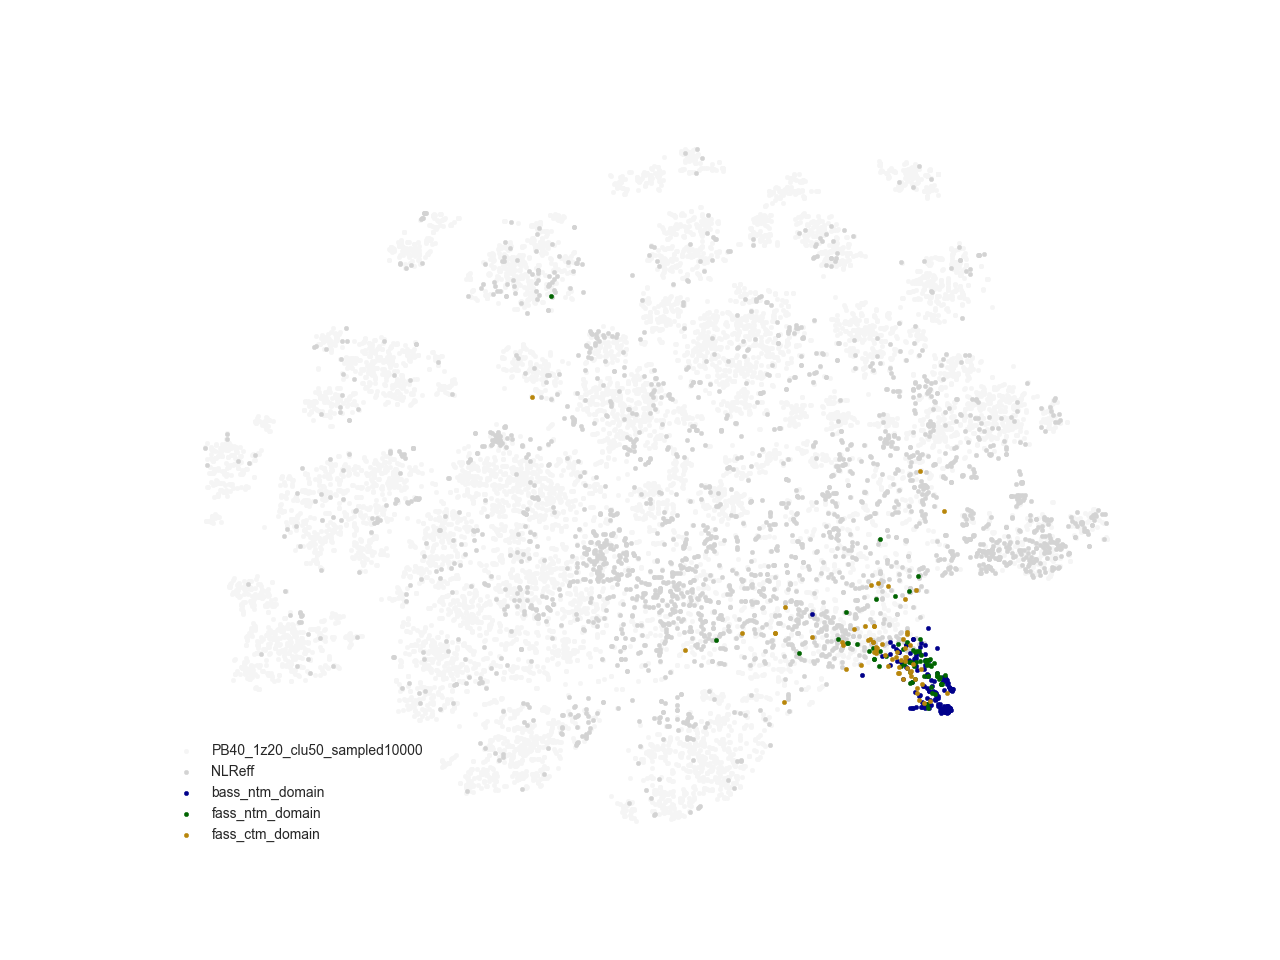
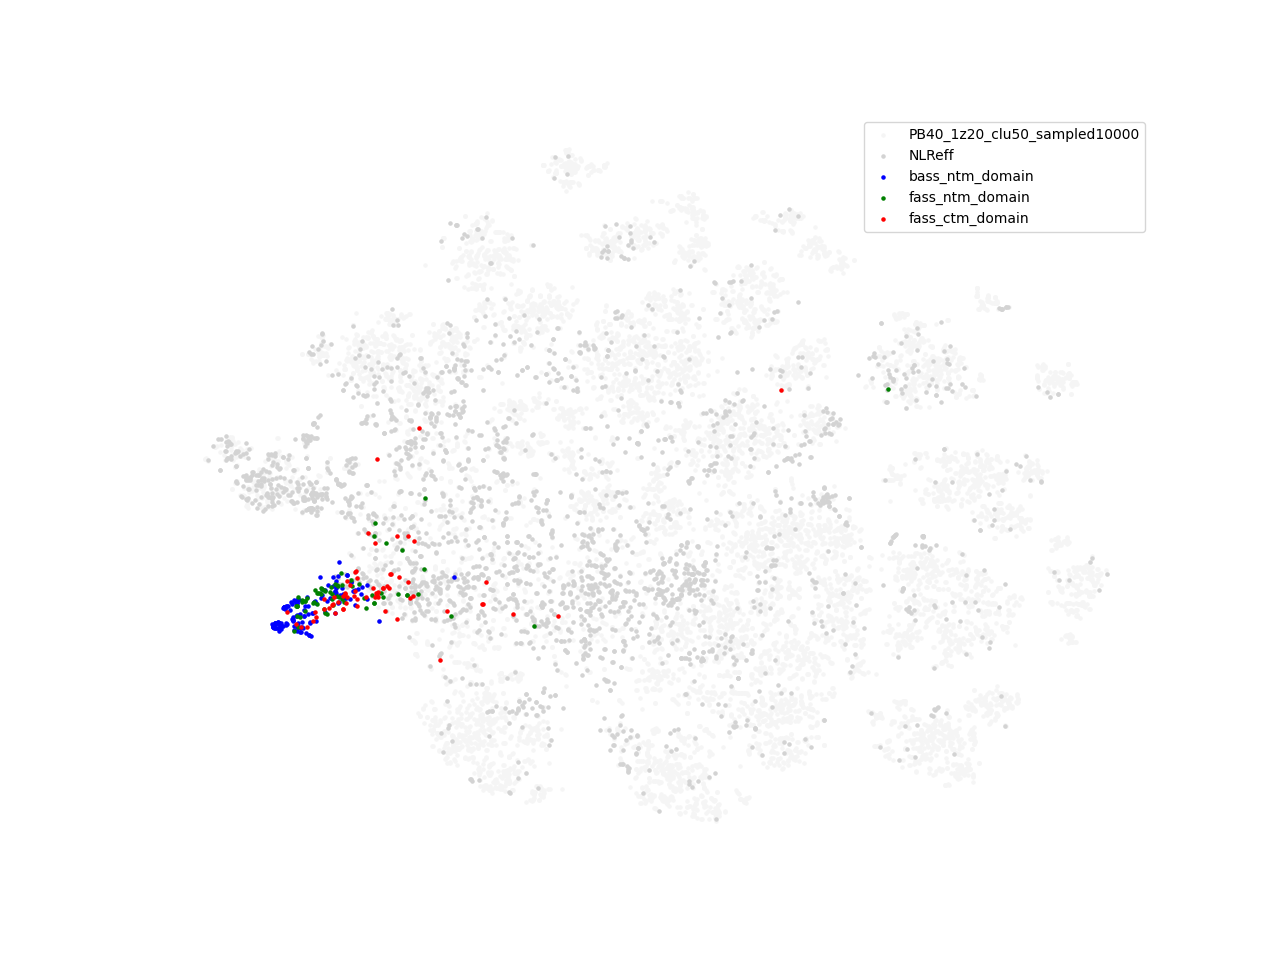
Added type separations in representation

diff --git a/config.py b/config.py
@@ -164,26 +164,28 @@ TST_FOLDS = {
 # represent
 WHITE_SMOKE = "whitesmoke"
 LIGHT_GRAY = "lightgray"
-DARK_BLUE = "darkblue"
-DARK_GREEN = "darkgreen"
-DARK_GOLDEN_ROD = "darkgoldenrod"
+BLUE = "blue"
+GREEN = "green"
+RED = "red"
+COLORS_CYCLE = [BLUE, GREEN, RED, "tan", "orange", "gold", "cyan", "navy", "purple", "magenta", "orchid"] # min 11 needed
 
 REP_COMBS = [
-    [RepFold("PB40_1z20_clu50_sampled10000", WHITE_SMOKE), RepFold("NLReff", LIGHT_GRAY), RepFold("bass_ntm_domain", DARK_BLUE), RepFold("fass_ntm_domain", DARK_GREEN), RepFold("fass_ctm_domain", DARK_GOLDEN_ROD)],
-    [RepFold("PB40_1z20_clu50_sampled10000", WHITE_SMOKE), RepFold("NLReff", LIGHT_GRAY), RepFold("bass_ntm_motif", DARK_BLUE), RepFold("fass_ntm_motif", DARK_GREEN), RepFold("fass_ctm_motif", DARK_GOLDEN_ROD)],
-    [RepFold("PB40_1z20_clu50_sampled10000", WHITE_SMOKE), RepFold("NLReff", LIGHT_GRAY), RepFold("bass_ntm_motif", DARK_BLUE), RepFold("bass_ntm_motif_env5", DARK_GREEN), RepFold("bass_ntm_motif_env10", DARK_GOLDEN_ROD)],
-    [RepFold("PB40_1z20_clu50_sampled10000", WHITE_SMOKE), RepFold("NLReff", LIGHT_GRAY), RepFold("fass_ntm_motif", DARK_BLUE), RepFold("fass_ntm_motif_env5", DARK_GREEN), RepFold("fass_ntm_motif_env10", DARK_GOLDEN_ROD)],
-    [RepFold("PB40_1z20_clu50_sampled10000", WHITE_SMOKE), RepFold("NLReff", LIGHT_GRAY), RepFold("fass_ctm_motif", DARK_BLUE), RepFold("fass_ctm_motif_env5", DARK_GREEN), RepFold("fass_ctm_motif_env10", DARK_GOLDEN_ROD)],
-    # TODO: specific class representation
-    # [RepFold("PB40_1z20_clu50_sampled10000", WHITE_SMOKE), RepFold("NLReff", LIGHT_GRAY), RepFold("bass_ntm_domain", sep="_")],
-    # [RepFold("PB40_1z20_clu50_sampled10000", WHITE_SMOKE), RepFold("NLReff", LIGHT_GRAY), RepFold("bass_ntm_motif", class_id_len=7)],
-    # [RepFold("PB40_1z20_clu50_sampled10000", WHITE_SMOKE), RepFold("NLReff", LIGHT_GRAY), RepFold("bass_ntm_motif_env5", class_id_len=7)],
-    # [RepFold("PB40_1z20_clu50_sampled10000", WHITE_SMOKE), RepFold("NLReff", LIGHT_GRAY), RepFold("bass_ntm_motif_env10", class_id_len=7)],
-    # [RepFold("PB40_1z20_clu50_sampled10000", WHITE_SMOKE), RepFold("NLReff", LIGHT_GRAY), RepFold("fass_ntm_motif", sep="_")],
-    # [RepFold("PB40_1z20_clu50_sampled10000", WHITE_SMOKE), RepFold("NLReff", LIGHT_GRAY), RepFold("fass_ntm_motif_env5", sep="_")],
-    # [RepFold("PB40_1z20_clu50_sampled10000", WHITE_SMOKE), RepFold("NLReff", LIGHT_GRAY), RepFold("fass_ntm_motif_env10", sep="_")]
+    [RepFold("PB40_1z20_clu50_sampled10000", WHITE_SMOKE), RepFold("NLReff", LIGHT_GRAY), RepFold("bass_ntm_domain", BLUE), RepFold("fass_ntm_domain", GREEN), RepFold("fass_ctm_domain", RED)],
+    [RepFold("PB40_1z20_clu50_sampled10000", WHITE_SMOKE), RepFold("NLReff", LIGHT_GRAY), RepFold("bass_ntm_motif", BLUE), RepFold("fass_ntm_motif", GREEN), RepFold("fass_ctm_motif", RED)],
+    [RepFold("PB40_1z20_clu50_sampled10000", WHITE_SMOKE), RepFold("NLReff", LIGHT_GRAY), RepFold("bass_ntm_motif", BLUE), RepFold("bass_ntm_motif_env5", GREEN), RepFold("bass_ntm_motif_env10", RED)],
+    [RepFold("PB40_1z20_clu50_sampled10000", WHITE_SMOKE), RepFold("NLReff", LIGHT_GRAY), RepFold("fass_ntm_motif", BLUE), RepFold("fass_ntm_motif_env5", GREEN), RepFold("fass_ntm_motif_env10", RED)],
+    [RepFold("PB40_1z20_clu50_sampled10000", WHITE_SMOKE), RepFold("NLReff", LIGHT_GRAY), RepFold("fass_ctm_motif", BLUE), RepFold("fass_ctm_motif_env5", GREEN), RepFold("fass_ctm_motif_env10", RED)],
+    [RepFold("PB40_1z20_clu50_sampled10000", WHITE_SMOKE), RepFold("NLReff", LIGHT_GRAY), RepFold("bass_ntm_domain", cut_type_rule="_")],
+    [RepFold("PB40_1z20_clu50_sampled10000", WHITE_SMOKE), RepFold("NLReff", LIGHT_GRAY), RepFold("bass_ntm_motif", cut_type_rule=7)],
+    [RepFold("PB40_1z20_clu50_sampled10000", WHITE_SMOKE), RepFold("NLReff", LIGHT_GRAY), RepFold("bass_ntm_motif_env5", cut_type_rule=7)],
+    [RepFold("PB40_1z20_clu50_sampled10000", WHITE_SMOKE), RepFold("NLReff", LIGHT_GRAY), RepFold("bass_ntm_motif_env10", cut_type_rule=7)],
+    [RepFold("PB40_1z20_clu50_sampled10000", WHITE_SMOKE), RepFold("NLReff", LIGHT_GRAY), RepFold("fass_ntm_motif", cut_type_rule="_")],
+    [RepFold("PB40_1z20_clu50_sampled10000", WHITE_SMOKE), RepFold("NLReff", LIGHT_GRAY), RepFold("fass_ntm_motif_env5", cut_type_rule="_")],
+    [RepFold("PB40_1z20_clu50_sampled10000", WHITE_SMOKE), RepFold("NLReff", LIGHT_GRAY), RepFold("fass_ntm_motif_env10", cut_type_rule="_")]
 ]
 
+MARKER_SIZE = 5
+TYPE_SEPARATION_LABEL = "type"
 REP_MODEL = MODEL_NAME + "comb%s"
 
 #----------------------------------------------------------------------------------------------------

diff --git a/represent.py b/represent.py
@@ -4,12 +4,13 @@ import pandas as pd
 import tensorflow as tf
 import matplotlib.pyplot as plt
 
+from cycler import cycler
 from datetime import datetime
 from sklearn.manifold import TSNE
 from util.model_config import ModelConfig
 from util.tokenizer import load_tokenizer
 from util.ploter import config_plot, save_plot
-from config import REP_COMBS, DATA_PREDICTION_PATH, REP_MODEL, SEP, PREDICTION_COLUMNS, MODEL_PATH, LAYER_BEFORE_CLASSIF_NAME, REPRESENTATION_PATH
+from config import REP_COMBS, DATA_PREDICTION_PATH, REP_MODEL, SEP, PREDICTION_COLUMNS, MODEL_PATH, LAYER_BEFORE_CLASSIF_NAME, COLORS_CYCLE, MARKER_SIZE, TYPE_SEPARATION_LABEL, REPRESENTATION_PATH
 
 
 model_id = sys.argv[1]
@@ -24,13 +25,22 @@ T = config.getParam("T")
 tokenizer = load_tokenizer()
 
 # Generating representation for each rep combination
-for comb in REP_COMBS:
+for comb_no, comb in enumerate(REP_COMBS):
+    print("____________________ Representing Comb No %d / %d ____________________" % ((comb_no + 1), len(REP_COMBS)))
+
     # Collecting representations for every fold in rep combination 
     rep = []
+    types = []
     for fold in comb:
         # Loading data (from comb model -> significant frags)
         df = pd.read_csv(DATA_PREDICTION_PATH % (model_id, fold.name + "." + (REP_MODEL % "".join(str(i) for i in range(1, FOLDS_QUANTITY + 1)))), sep=SEP)
         frag = df[PREDICTION_COLUMNS[3]]
+
+        # Cutting out sequences types from ids
+        rule = fold.cut_type_rule
+        if rule != None:
+            ids = df[PREDICTION_COLUMNS[0]]
+            types.extend(ids.map(lambda id: id[:rule] if type(rule) == int else id.split(rule)[0]))
 
         # Tokenization
         token_frag = tokenizer.texts_to_sequences(frag)
@@ -60,17 +70,48 @@ for comb in REP_COMBS:
     y = tsne[:, 1]
 
     # Plotting representation
-    config_plot(ylim=False, size_scale=2)
+    config_plot(ylim=False, size_scale=2, turn_of_default_style=True)
+    plt.rc("axes", prop_cycle=cycler(color=COLORS_CYCLE))
     plt.axis("off")
 
     i = 0
+    j = 0
     rep_name = ""
     for fold in comb:
         scope = fold.scope
         fold_name = fold.name
 
-        plt.scatter(x[i:i+scope], y[i:i+scope], label=fold_name, c=fold.color, s=10)
+        if fold.cut_type_rule != None:
+            # Printing each of fold sequences types separately
+            fold_x = x[i:i+scope]
+            fold_y = y[i:i+scope]
+            fold_types = types[j:j+scope]
 
+            # Sorting by sequences types
+            zipped = zip(fold_x, fold_y, fold_types)
+            zipped = sorted(zipped, key=lambda x: x[2])
+
+            fx = []
+            fy = []
+            last_type = zipped[0][2]
+            for x in zipped:
+                current_type = x[2]
+
+                if current_type != last_type:
+                    plt.scatter(fx, fy, label=last_type, s=MARKER_SIZE)
+                    fx = []
+                    fy = []
+
+                fx.append(x[0])
+                fy.append(x[1])
+                last_type = current_type
+            plt.scatter(fx, fy, label=last_type, s=MARKER_SIZE)
+
+            rep_name += TYPE_SEPARATION_LABEL + "."
+            j += scope
+        else:
+            plt.scatter(x[i:i+scope], y[i:i+scope], label=fold_name, c=fold.color, s=MARKER_SIZE)
+        
         rep_name += fold_name + "."
         i += scope
 

diff --git a/train.py b/train.py
@@ -21,7 +21,7 @@ for dir in DIRS_TREE:
 tokenizer = load_tokenizer()
 
 for fold_no in range(1, FOLDS_QUANTITY + 1):
-    print("____________________ Training Fold No %d ____________________" % fold_no)
+    print("____________________ Training Fold No %d / %d ____________________" % (fold_no, FOLDS_QUANTITY))
 
     # Loading data
     x_trn, y_trn, x_val, y_val = load_trn_val_fold(fold_no)
@@ -42,7 +42,7 @@ for fold_no in range(1, FOLDS_QUANTITY + 1):
     i = tf.keras.layers.Input(shape=(T,), name="input")
     x = tf.keras.layers.Embedding(V, D, name="embedding")(i)
     x = tf.keras.layers.Bidirectional(tf.keras.layers.LSTM(M, return_sequences=True), name="bidirectional")(x)
-    x = tf.keras.layers.LSTM((3 * M), name=LAYER_BEFORE_CLASSIF_NAME)(x)
+    x = tf.keras.layers.LSTM((4 * M), name=LAYER_BEFORE_CLASSIF_NAME)(x)
     x = tf.keras.layers.Dense(1, activation="sigmoid", name="dense")(x)
     model = tf.keras.models.Model(i, x, name=MODEL_NAME)
 

diff --git a/util/ploter.py b/util/ploter.py
@@ -3,11 +3,11 @@ import matplotlib.pyplot as plt
 from config import PLOT_STYLE
 
 
-def config_plot(xlabel=None, ylabel=None, ylim=True, size_scale=1):
+def config_plot(xlabel=None, ylabel=None, ylim=True, size_scale=1, turn_of_default_style=False):
     plt.figure(figsize=((6.4 * size_scale), (4.8 * size_scale)))
-    plt.style.use(PLOT_STYLE)
-    plt.xlabel(xlabel)
-    plt.ylabel(ylabel)
+    if not turn_of_default_style: plt.style.use(PLOT_STYLE)
+    if xlabel != None: plt.xlabel(xlabel)
+    if ylabel != None: plt.ylabel(ylabel)
     if ylim: plt.ylim([-.05, 1.05])
 
 def save_plot(path):

diff --git a/util/rep_fold.py b/util/rep_fold.py
@@ -1,15 +1,10 @@
 class RepFold:
 
-    def __init__(self, name, color, separate=False, rule=False):
+    def __init__(self, name, color=None, cut_type_rule=None):
         self.name = name
         self.color = color
-        self.separate = separate
-        self.rule = rule
+        self.cut_type_rule = cut_type_rule
 
     def setScope(self, scope):
         self.scope = scope
-
-    def get_class(self, id):
-        if type(self.rule) == int:
-            return id[:self.rule]
         

diff --git a/predict.py b/predict.py
@@ -20,7 +20,9 @@ T = config.getParam("T")
 tokenizer = load_tokenizer()
 
 # Predicting for each test fold
-for key in TST_FOLDS:
+for key_no, key in enumerate(TST_FOLDS):
+    print("____________________ Predicting Test Fold No %d / %d ____________________" % ((key_no + 1), len(TST_FOLDS)))
+
     # Result holders
     y_pred_frag_s = []
 
